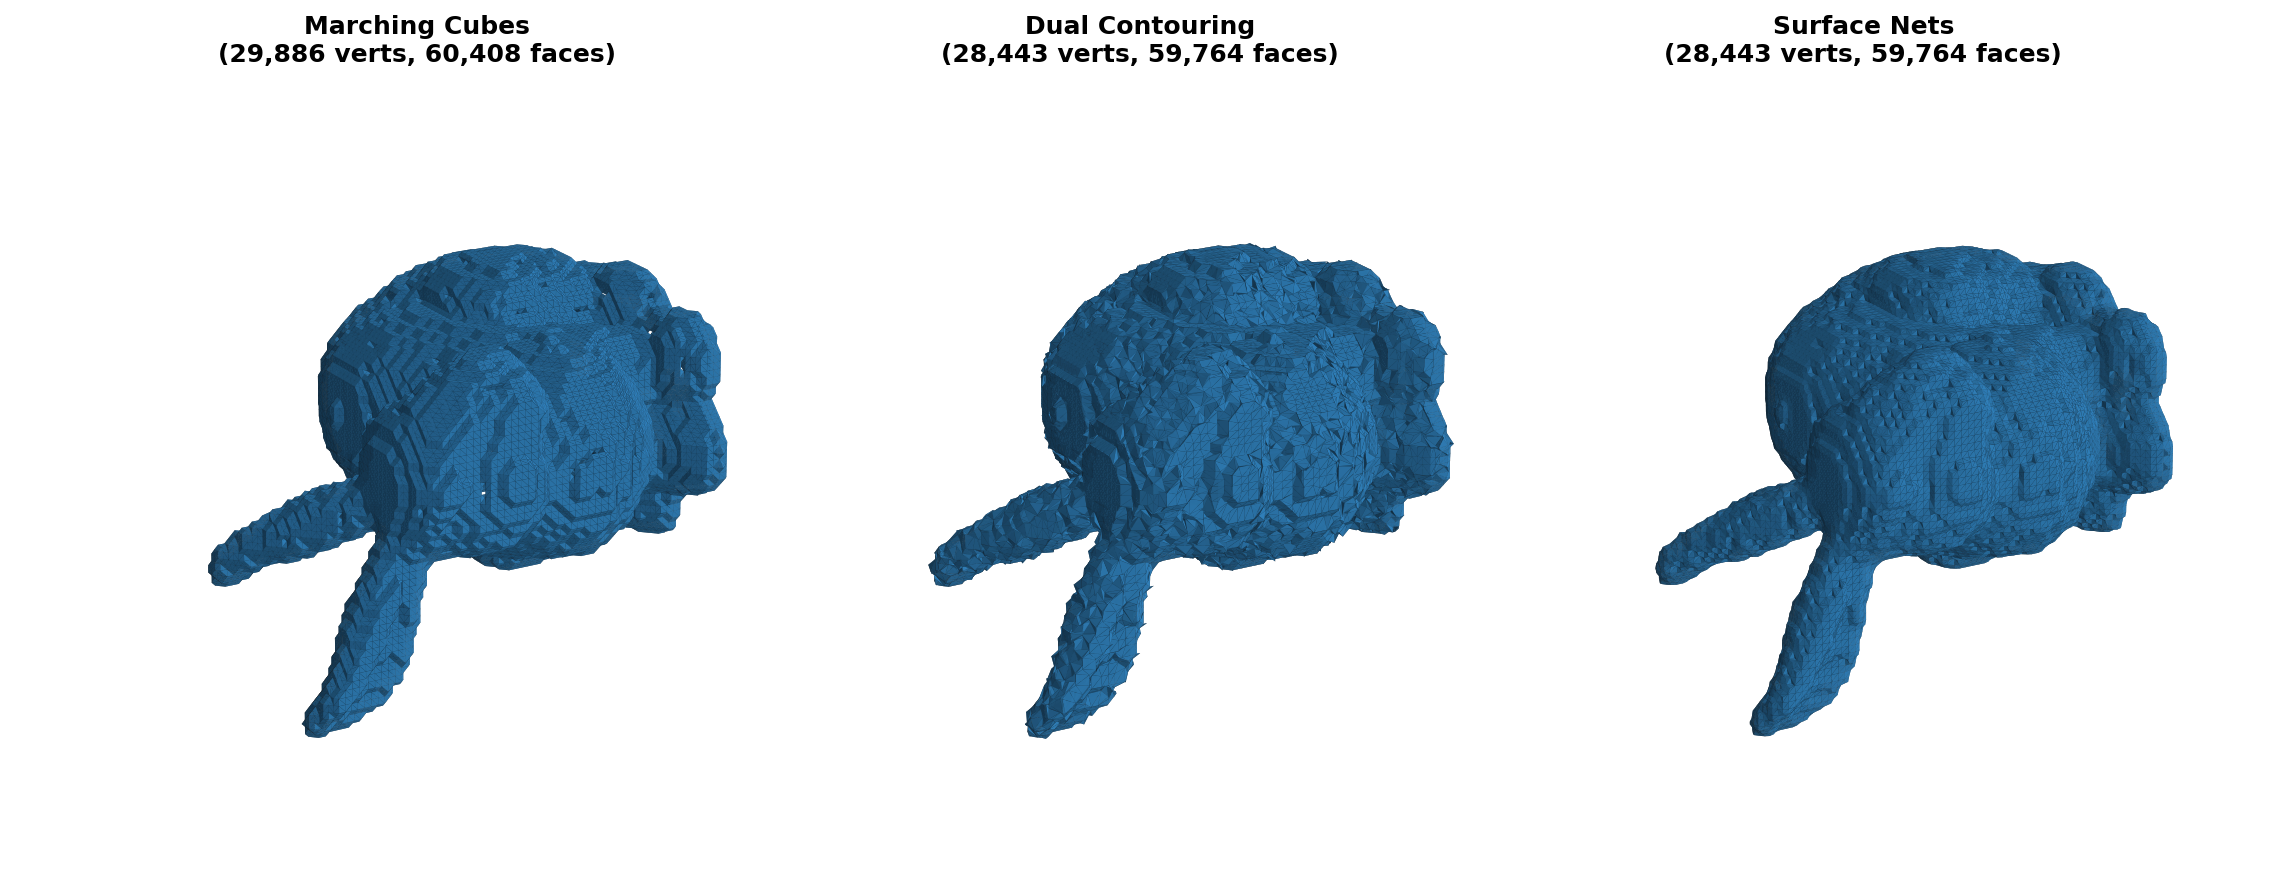
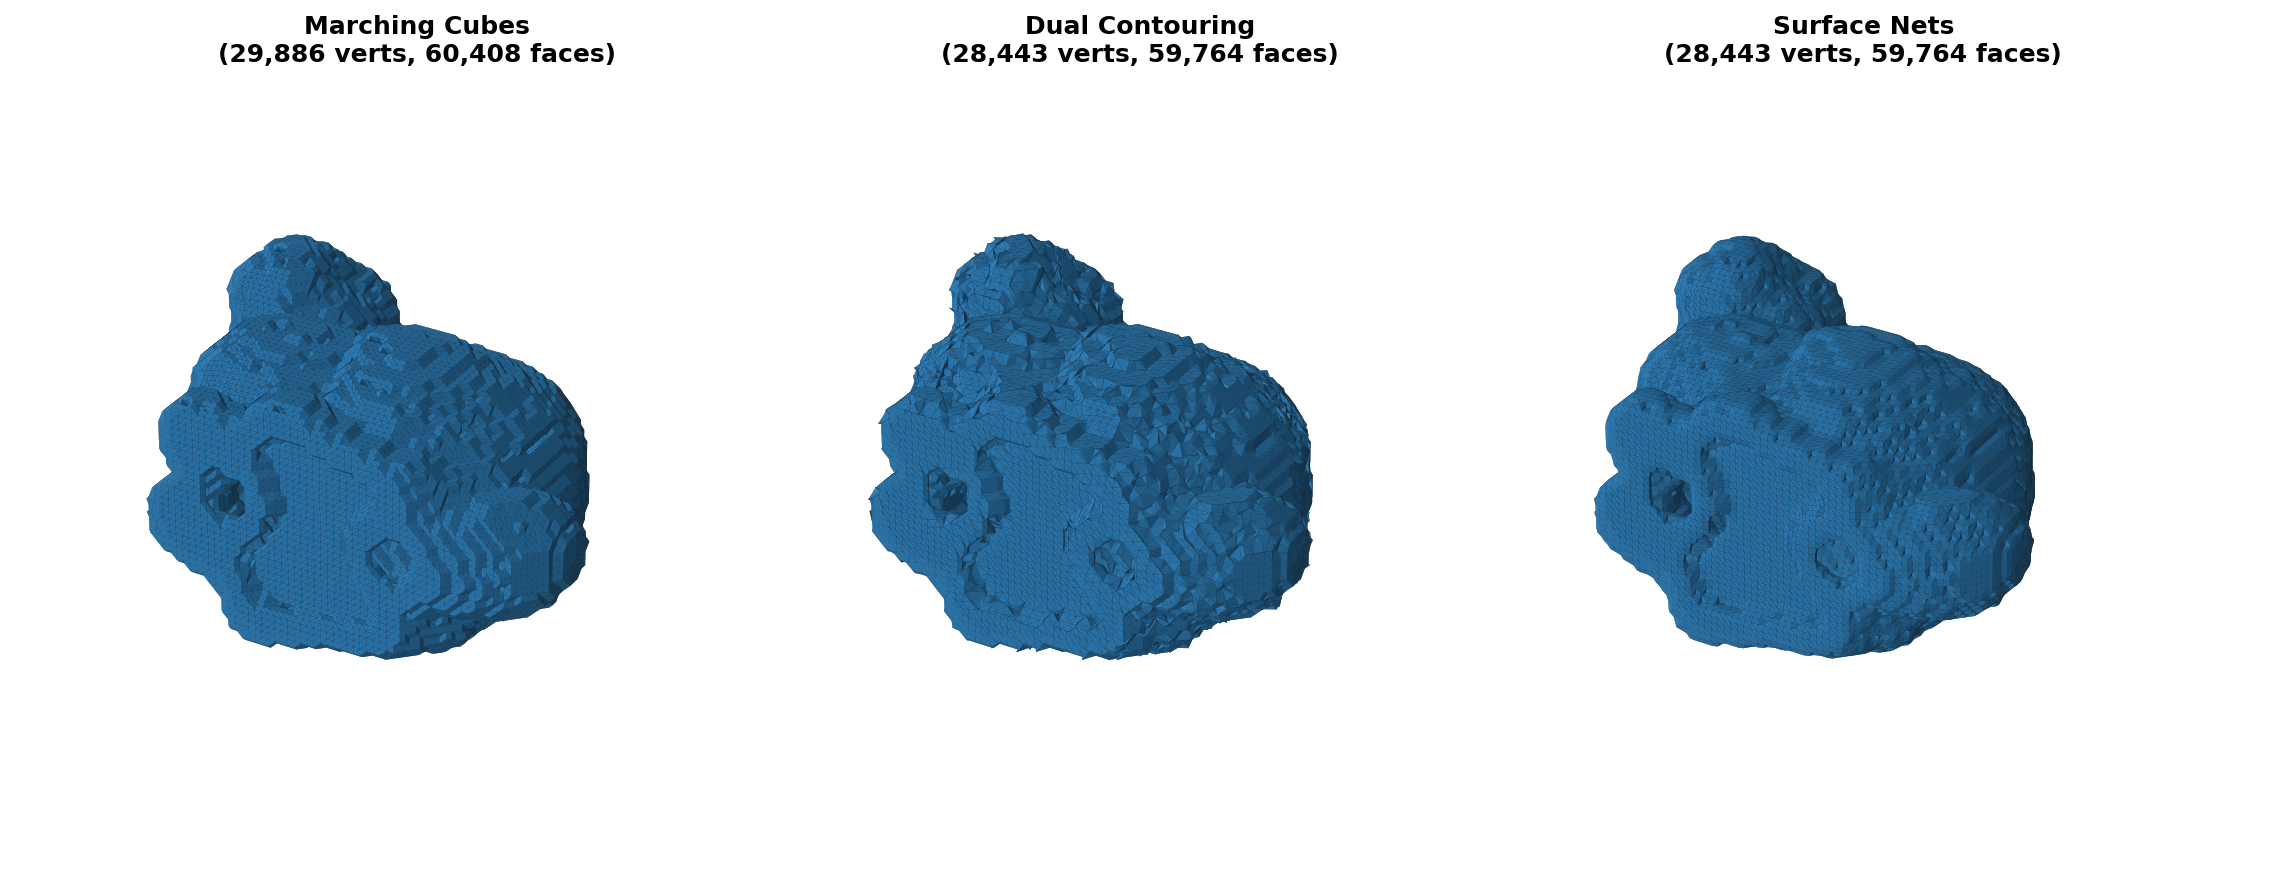
fix: use default view angle for bunny comparison, increase title spacing

Changed region(s): [[0.6851, 0.2422, 0.9654, 0.8173], [0.3737, 0.2422, 0.6539, 0.8475], [0.0623, 0.2422, 0.3425, 0.8475]]

diff --git a/scripts/generate_doc_images.py b/scripts/generate_doc_images.py
@@ -770,13 +770,13 @@ def gen_extraction_comparison() -> None:
             v[:, 0], v[:, 1], v[:, 2], triangles=f, color="#3182BD", edgecolor="#1a1a1a", linewidth=0.02, alpha=0.95
         )
         ax.set_title(f"{name}\n({v.shape[0]:,} verts, {f.shape[0]:,} faces)", fontsize=12, fontweight="bold")
-        ax.view_init(elev=20, azim=150)  # classic bunny side profile
+        ax.view_init(elev=30, azim=-60)  # matplotlib default-like 3/4 view
         ax.set_axis_off()
         ax.set_xlim(*xlim)
         ax.set_ylim(*ylim)
         ax.set_zlim(*zlim)
         ax.set_box_aspect(box_aspect)
-    fig.subplots_adjust(left=0.0, right=1.0, bottom=-0.05, top=0.88, wspace=-0.1)
+    fig.subplots_adjust(left=0.0, right=1.0, bottom=-0.05, top=0.82, wspace=-0.1)
     fig.savefig(OUTPUT_DIR / "extraction-comparison.png", dpi=DPI, bbox_inches="tight", facecolor=BG_COLOR)
     plt.close(fig)
 
